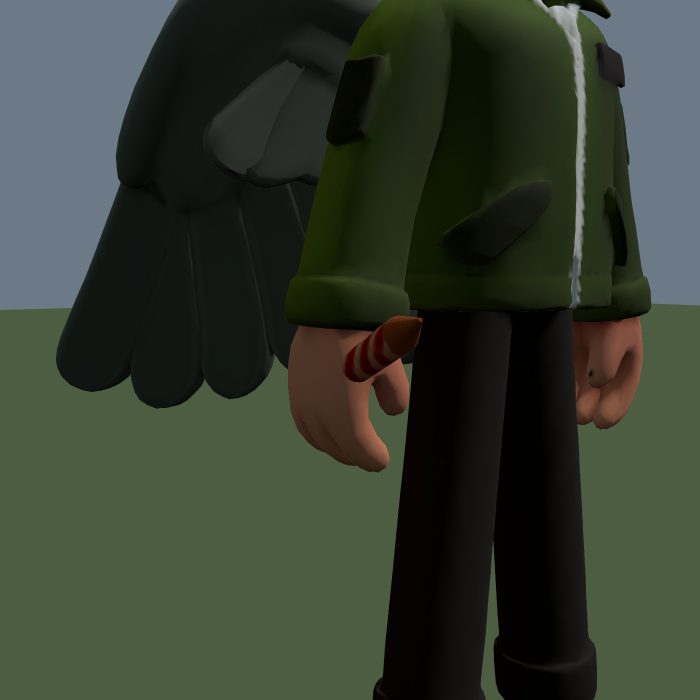
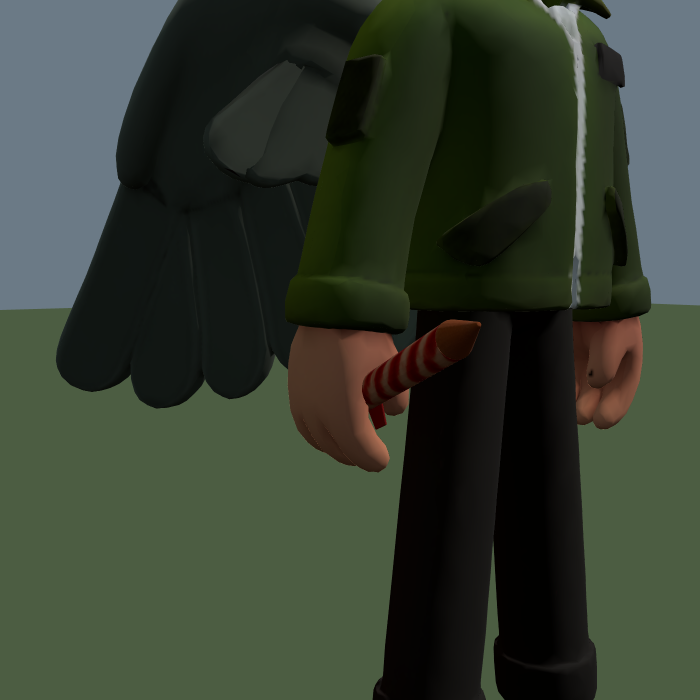
Cross the firework in front of the fingers
Behind them, everything that touched was hidden and the eye saw a tube beside a
closed hand. In front, the tube visibly crosses the fingers and the tail passes
between them, which is the cue that says held. Nearest fist vertex to the axis
6.8 mm, 0.89 off centre; gripcheck passes.

Claude-Session: https://claude.ai/code/session_01AbPj1ecgWZX5NRERgq23EA

Changed region(s): [[0.48, 0.45, 0.69, 0.63]]

diff --git a/src/player/avatar.js b/src/player/avatar.js
@@ -34,7 +34,7 @@ const GRIP_FILL = 1.0;
 /** How far out of the fist it sits, as a share of the fist's width. */
 const GRIP_OUT = 0.0;
 /** How far behind the fist's axis it sits, as a share of the fist's width. */
-const GRIP_BACK = 0.35;
+const GRIP_BACK = -0.25;
 /** White, for lightening the slot colour before it tints a photograph. */
 const WHITE_TINT = new THREE.Color(0xffffff);
 /** Scratch, so measuring the scan's fist allocates nothing. */
